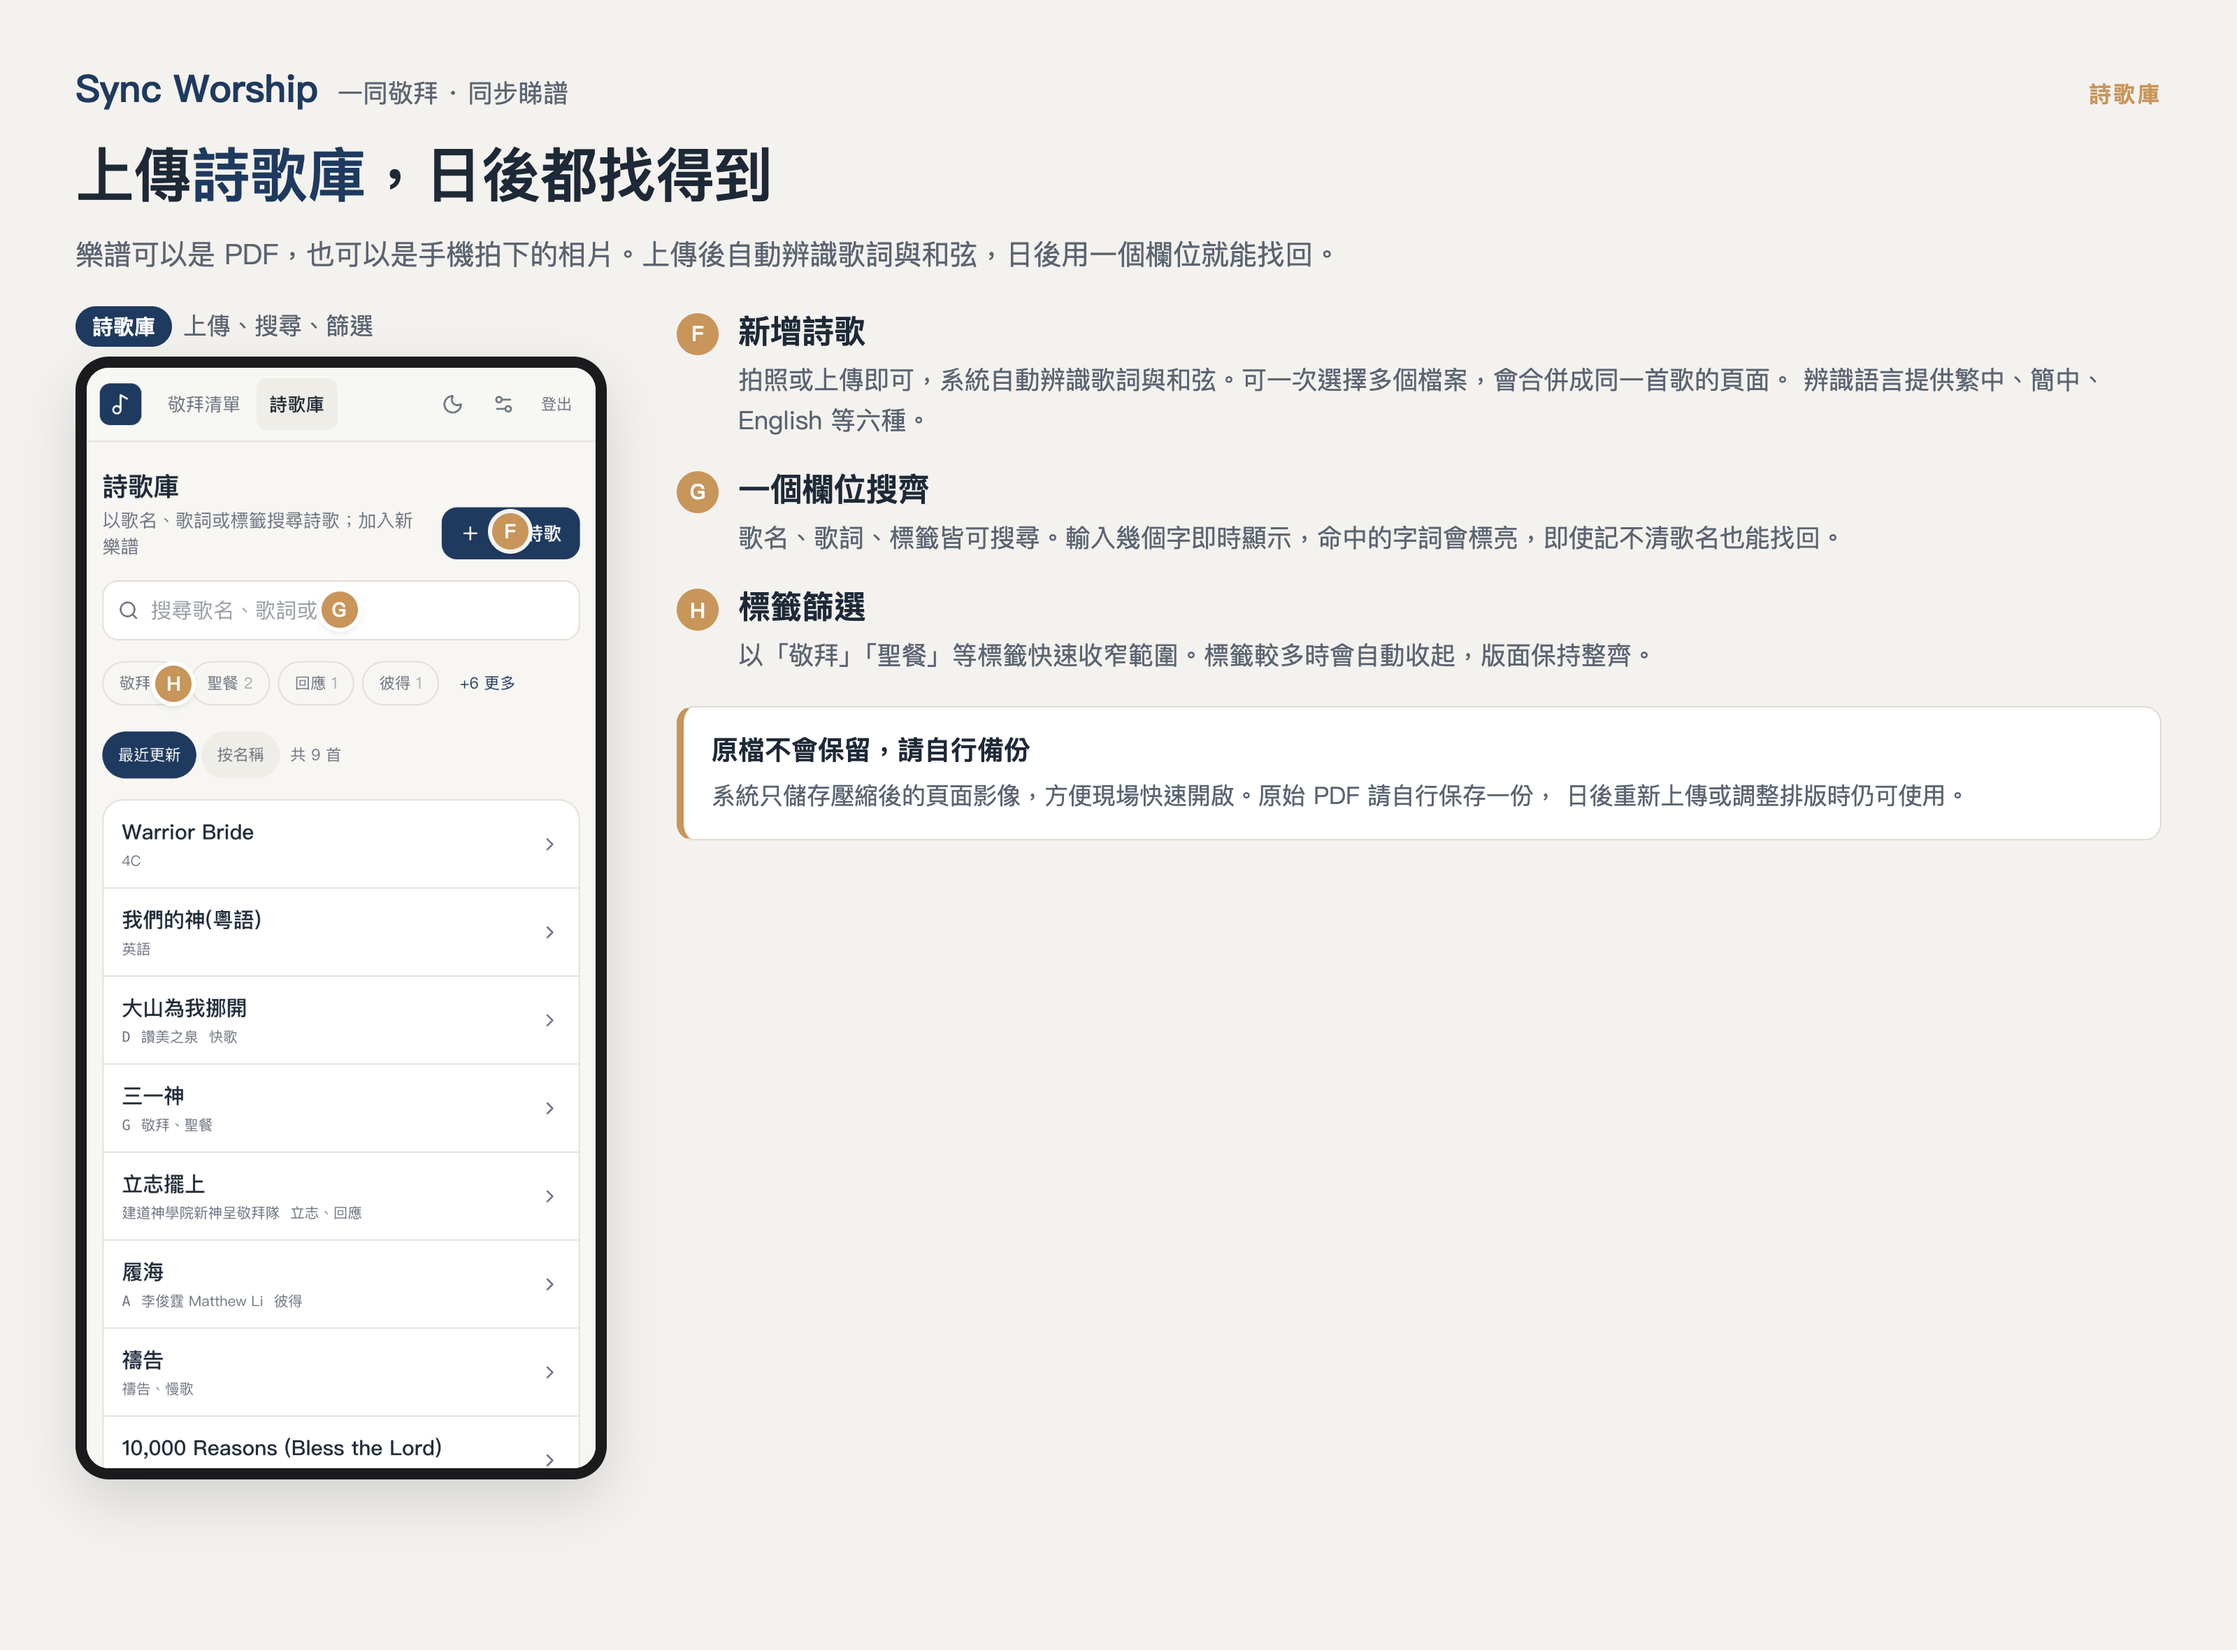
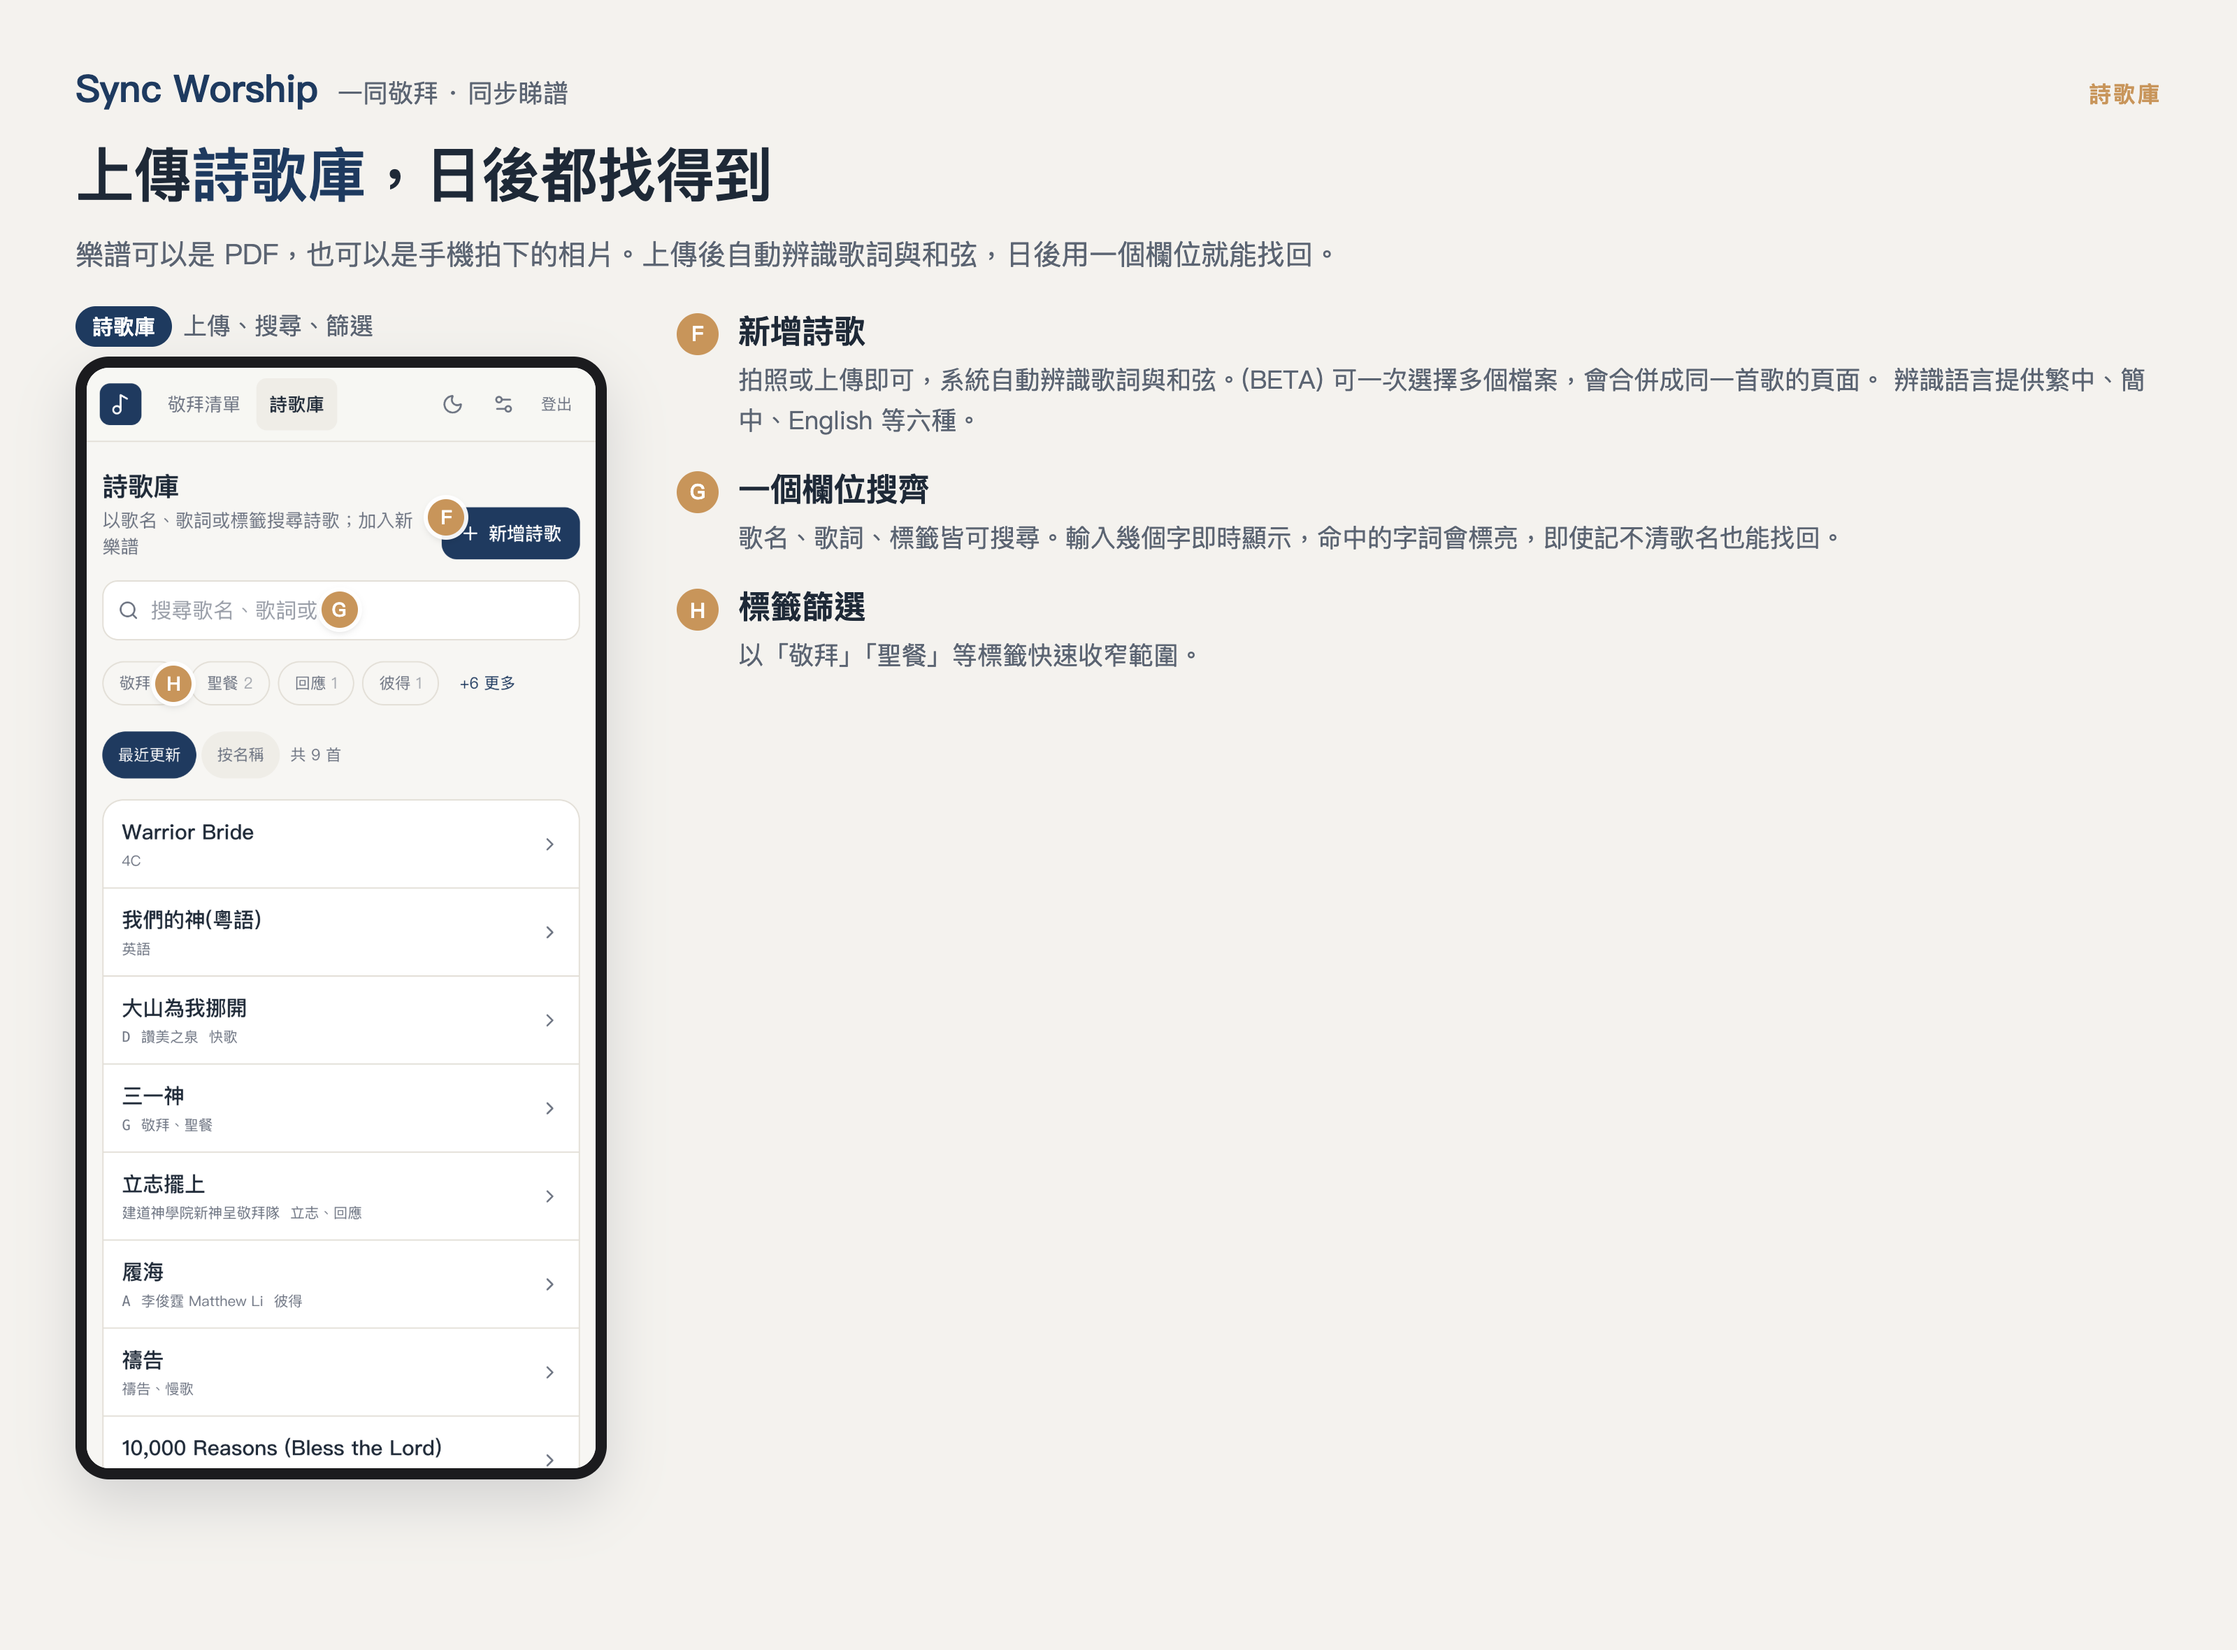
Guide p3: reposition pin F, add BETA, drop tag/backup lines and box

diff --git a/docs/p3-library.html b/docs/p3-library.html
@@ -22,7 +22,7 @@
     <div class="phone">
       <div class="shot">
         <img src="../s2_library.png" alt="詩歌庫" />
-        <span class="pin" style="left:83.2%; top:14.9%">F</span>
+        <span class="pin" style="left:70.7%; top:13.6%">F</span>
         <span class="pin" style="left:49.6%; top:22.0%">G</span>
         <span class="pin" style="left:17.1%; top:28.7%">H</span>
       </div>
@@ -33,7 +33,7 @@
     <div class="points">
       <div class="pt"><span class="k">F</span>
         <div><b>新增詩歌</b>
-          <p>拍照或上傳即可，系統自動辨識歌詞與和弦。可一次選擇多個檔案，會合併成同一首歌的頁面。
+          <p>拍照或上傳即可，系統自動辨識歌詞與和弦。(BETA) 可一次選擇多個檔案，會合併成同一首歌的頁面。
           辨識語言提供繁中、簡中、English 等六種。</p></div></div>
 
       <div class="pt"><span class="k">G</span>
@@ -42,14 +42,9 @@
 
       <div class="pt"><span class="k">H</span>
         <div><b>標籤篩選</b>
-          <p>以「敬拜」「聖餐」等標籤快速收窄範圍。標籤較多時會自動收起，版面保持整齊。</p></div></div>
+          <p>以「敬拜」「聖餐」等標籤快速收窄範圍。</p></div></div>
     </div>
 
-    <div class="box">
-      <b>原檔不會保留，請自行備份</b>
-      <p>系統只儲存壓縮後的頁面影像，方便現場快速開啟。原始 PDF 請自行保存一份，
-      日後重新上傳或調整排版時仍可使用。</p>
-    </div>
   </div>
 </div>
 
